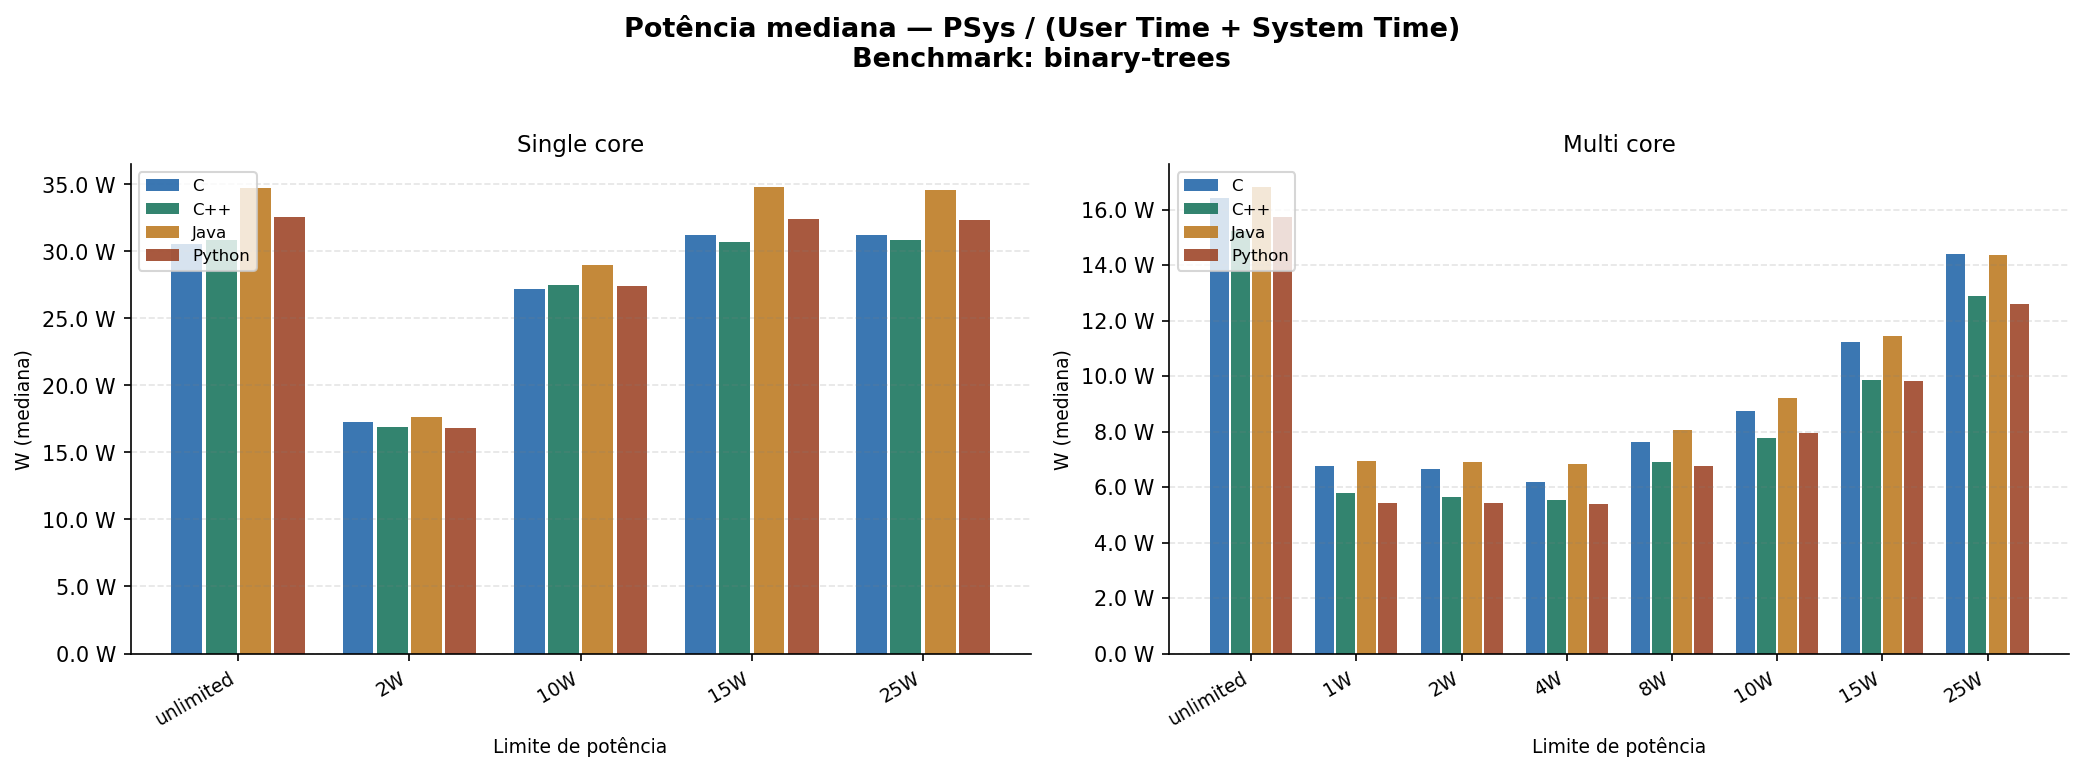
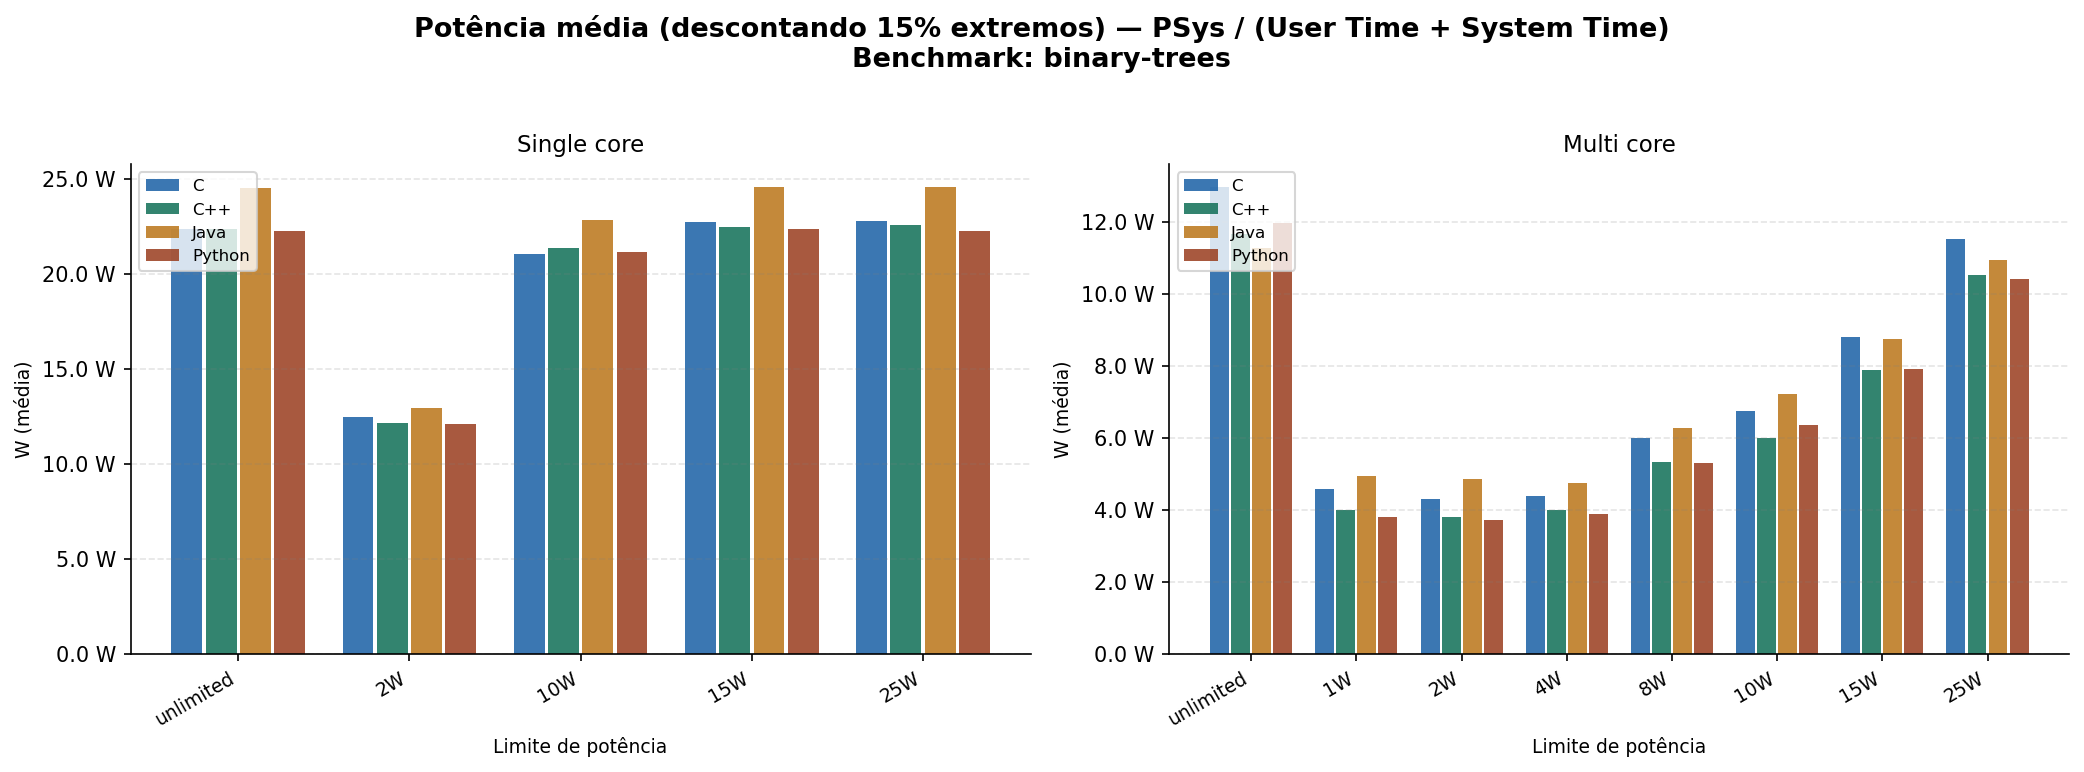
analise descartando 15% maior e menor, e fazendo media ao inves de mediana

diff --git a/Claude/plot_power_cpu_time_media.py b/Claude/plot_power_cpu_time_media.py
@@ -1,0 +1,183 @@
+"""
+plot_power_cpu_time.py
+======================
+Gera gráficos de potência (PSys / (User Time + System Time)) por benchmark,
+linguagem e limite de potência para dois experimentos: single core e multi core.
+
+Uso:
+    python plot_power_cpu_time.py \
+        --single measurements-single-elite-perf-01042026.csv \
+        --mult   measurements-mult-elite-perf-27-03-2026.csv
+
+Dependências:
+    pip install pandas matplotlib
+"""
+
+import argparse
+from pathlib import Path
+
+import matplotlib.pyplot as plt
+import matplotlib.ticker as ticker
+import pandas as pd
+import numpy as np
+
+
+# ---------------------------------------------------------------------------
+# Configuração
+# ---------------------------------------------------------------------------
+
+LANG_COLORS = {
+    "C":      "#185FA5",
+    "C++":    "#0F6E56",
+    "Java":   "#BA7517",
+    "Python": "#993C1D",
+}
+LANGUAGES = ["C", "C++", "Java", "Python"]
+
+SINGLE_POWERS = [-1, 2, 10, 15, 25]
+MULT_POWERS   = [-1, 1, 2, 4, 8, 10, 15, 25]
+
+def power_label(p):
+    return "unlimited" if p == -1 else f"{p}W"
+
+
+# ---------------------------------------------------------------------------
+# Leitura e pré-processamento
+# ---------------------------------------------------------------------------
+
+def load(path: str, experiment: str) -> pd.DataFrame:
+    df = pd.read_csv(path)
+    df.columns = df.columns.str.strip()
+    df["Program"] = df["Program"].str.strip()
+    df["experiment"] = experiment
+    df["cpu_time_ms"] = df["User Time"] + df["System Time"]
+    df["power_W"] = df["PSys"] / df["cpu_time_ms"] * 1000
+    return df
+
+
+def compute_summary(df: pd.DataFrame) -> pd.DataFrame:
+    def _trimmed_mean(values: pd.Series) -> float:
+        arr = np.asarray(values.dropna())
+        n = arr.size
+        if n == 0:
+            return float("nan")
+        arr.sort()
+        k = int(n * 0.15)
+        if k == 0:
+            return float(arr.mean())
+        trimmed = arr[k:n - k] if (n - 2 * k) > 0 else arr
+        if trimmed.size == 0:
+            return float(arr.mean())
+        return float(trimmed.mean())
+
+    summary = (
+        df.groupby(["experiment", "Language", "Program", "PowerLimit"])["power_W"]
+        .apply(_trimmed_mean)
+        .reset_index()
+    )
+    summary.columns = ["experiment", "language", "benchmark", "power_limit", "mean_power_W"]
+    return summary
+
+
+# ---------------------------------------------------------------------------
+# Plot
+# ---------------------------------------------------------------------------
+
+def plot_benchmark(summary: pd.DataFrame, benchmark: str, out_dir: Path,
+                   scale: str = "linear") -> None:
+    """Gera um único arquivo PNG com dois subplots (single | multi) para um benchmark."""
+
+    fig, axes = plt.subplots(1, 2, figsize=(14, 5), sharey=False)
+    fig.suptitle(
+        f"Potência média (descontando 15% extremos) — PSys / (User Time + System Time)\nBenchmark: {benchmark}",
+        fontsize=13, fontweight="bold", y=1.02,
+    )
+
+    configs = [
+        ("single", SINGLE_POWERS, axes[0], "Single core"),
+        ("mult",   MULT_POWERS,   axes[1], "Multi core"),
+    ]
+
+    n_langs = len(LANGUAGES)
+
+    for exp, powers, ax, title in configs:
+        sub = summary[(summary["experiment"] == exp) & (summary["benchmark"] == benchmark)]
+
+        x = range(len(powers))
+        bar_width = 0.8 / n_langs
+
+        for i, lang in enumerate(LANGUAGES):
+            lang_data = sub[sub["language"] == lang].set_index("power_limit")["mean_power_W"]
+            values = [lang_data.get(p, float("nan")) for p in powers]
+            offsets = [xi + (i - n_langs / 2 + 0.5) * bar_width for xi in x]
+            ax.bar(
+                offsets, values,
+                width=bar_width * 0.9,
+                color=LANG_COLORS[lang],
+                alpha=0.85,
+                label=lang,
+            )
+
+        ax.set_title(title, fontsize=11)
+        ax.set_xticks(list(x))
+        ax.set_xticklabels([power_label(p) for p in powers], rotation=30, ha="right", fontsize=9)
+        ax.set_xlabel("Limite de potência", fontsize=9)
+        ax.set_ylabel("W (média)", fontsize=9)
+        ax.set_yscale(scale)
+        ax.yaxis.set_major_formatter(ticker.FormatStrFormatter("%.1f W"))
+        ax.grid(axis="y", color="gray", alpha=0.2, linestyle="--")
+        ax.spines[["top", "right"]].set_visible(False)
+        ax.legend(fontsize=8, loc="upper left")
+
+    fig.tight_layout()
+    safe_name = benchmark.replace("-", "_")
+    out_path = out_dir / f"power_cpu_{safe_name}_{scale}.png"
+    fig.savefig(out_path, dpi=150, bbox_inches="tight")
+    plt.close(fig)
+    print(f"  Salvo: {out_path}")
+
+
+def plot_all(summary: pd.DataFrame, out_dir: Path, scale: str = "linear") -> None:
+    benchmarks = sorted(summary["benchmark"].unique())
+    print(f"\nGerando {len(benchmarks)} gráfico(s) — escala {scale}...")
+    for bench in benchmarks:
+        plot_benchmark(summary, bench, out_dir, scale)
+
+
+# ---------------------------------------------------------------------------
+# Entrypoint
+# ---------------------------------------------------------------------------
+
+def main() -> None:
+    parser = argparse.ArgumentParser(description="Plota potência por CPU time (single vs mult)")
+    parser.add_argument("--single", required=True, help="CSV do experimento single core")
+    parser.add_argument("--mult",   required=True, help="CSV do experimento multi core")
+    parser.add_argument("--out",    default="plots", help="Diretório de saída (default: plots/)")
+    parser.add_argument("--scale",  default="linear", choices=["linear", "log"],
+                        help="Escala do eixo Y: linear ou log (default: linear)")
+    parser.add_argument("--benchmark", default=None,
+                        help="Gerar apenas um benchmark específico (opcional)")
+    args = parser.parse_args()
+
+    out_dir = Path(args.out)
+    out_dir.mkdir(parents=True, exist_ok=True)
+
+    print("Carregando dados...")
+    df_single = load(args.single, "single")
+    df_mult   = load(args.mult,   "mult")
+    df = pd.concat([df_single, df_mult], ignore_index=True)
+
+    summary = compute_summary(df)
+
+    mpl_scale = "log" if args.scale == "log" else "linear"
+
+    if args.benchmark:
+        plot_benchmark(summary, args.benchmark, out_dir, mpl_scale)
+    else:
+        plot_all(summary, out_dir, mpl_scale)
+
+    print("\nConcluído.")
+
+
+if __name__ == "__main__":
+    main()
